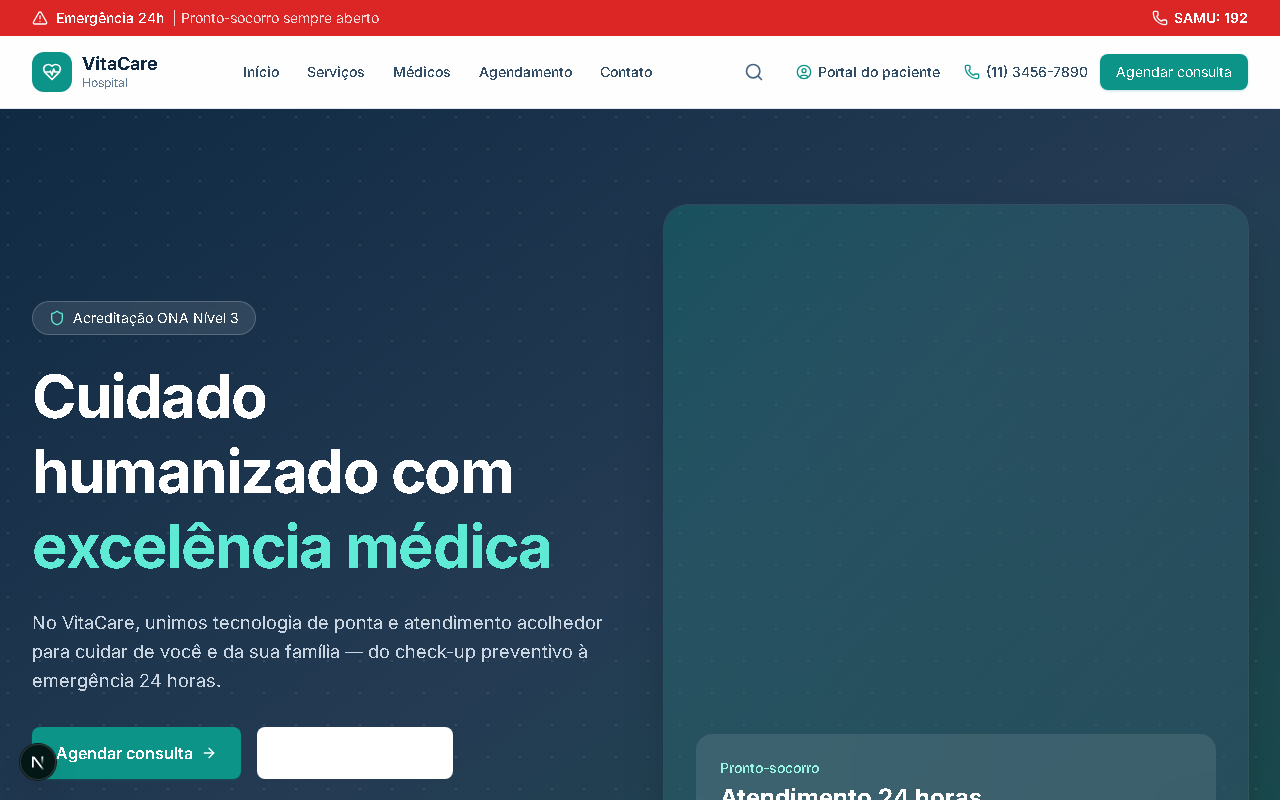
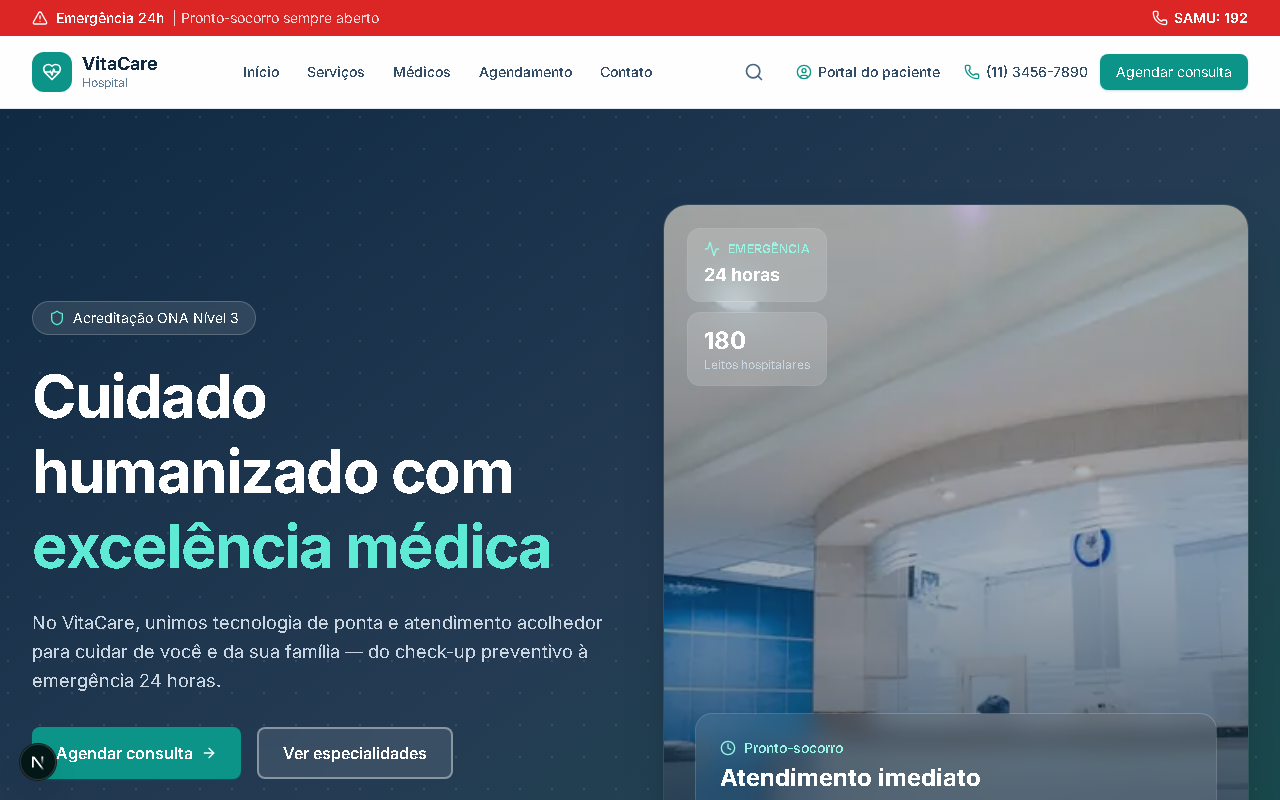
fix: corrige contraste de botoes e enriquece hero da homepage

diff --git a/src/components/home/Hero.tsx b/src/components/home/Hero.tsx
@@ -1,5 +1,6 @@
+import Image from "next/image";
 import Link from "next/link";
-import { ArrowRight, Shield, Award, Users } from "lucide-react";
+import { ArrowRight, Shield, Award, Users, Activity, Clock } from "lucide-react";
 import { Button } from "@/components/ui/Button";
 
 export function Hero() {
@@ -39,7 +40,7 @@ export function Hero() {
                 Agendar consulta
                 <ArrowRight className="size-4" aria-hidden="true" />
               </Button>
-              <Button href="/servicos" variant="outline" size="lg" className="border-white/30 text-white hover:bg-white/10">
+              <Button href="/servicos" variant="outline-light" size="lg">
                 Ver especialidades
               </Button>
             </div>
@@ -56,18 +57,68 @@ export function Hero() {
             </div>
           </div>
 
+          <div className="relative mt-10 block overflow-hidden rounded-2xl lg:hidden">
+            <div className="relative aspect-[16/9]">
+              <Image
+                src="https://images.unsplash.com/photo-1519494026892-80bbd2d6fd0d?auto=format&fit=crop&w=900&q=80"
+                alt="Ambiente hospitalar moderno do VitaCare"
+                fill
+                className="object-cover"
+                sizes="100vw"
+              />
+              <div className="absolute inset-0 bg-gradient-to-t from-secondary-900/90 to-transparent" />
+              <div className="absolute bottom-4 left-4 right-4 rounded-xl bg-white/10 p-4 backdrop-blur-md ring-1 ring-white/20">
+                <p className="text-sm font-medium text-primary-200">Pronto-socorro 24h</p>
+                <p className="text-lg font-bold">Emergência com equipe especializada</p>
+              </div>
+            </div>
+          </div>
+
           <div className="relative hidden lg:block">
-            <div className="aspect-[4/5] overflow-hidden rounded-3xl bg-gradient-to-br from-primary-600/30 to-secondary-700/50 shadow-2xl ring-1 ring-white/10">
-              <div className="flex h-full flex-col justify-end p-8">
-                <div className="rounded-2xl bg-white/10 p-6 backdrop-blur-md">
-                  <p className="text-sm font-medium text-primary-200">Pronto-socorro</p>
-                  <p className="mt-1 text-2xl font-bold">Atendimento 24 horas</p>
+            <div className="relative aspect-[4/5] overflow-hidden rounded-3xl shadow-2xl ring-1 ring-white/10">
+              <Image
+                src="https://images.unsplash.com/photo-1519494026892-80bbd2d6fd0d?auto=format&fit=crop&w=900&q=80"
+                alt="Corredor moderno de hospital com equipe médica"
+                fill
+                priority
+                className="object-cover"
+                sizes="(min-width: 1024px) 480px, 100vw"
+              />
+              <div
+                className="absolute inset-0 bg-gradient-to-t from-secondary-900/95 via-secondary-900/40 to-secondary-900/20"
+                aria-hidden="true"
+              />
+
+              <div className="absolute left-6 top-6 flex flex-col gap-3">
+                <div className="rounded-xl bg-white/15 px-4 py-3 backdrop-blur-md ring-1 ring-white/20">
+                  <div className="flex items-center gap-2 text-primary-200">
+                    <Activity className="size-4" aria-hidden="true" />
+                    <span className="text-xs font-semibold uppercase tracking-wide">
+                      Emergência
+                    </span>
+                  </div>
+                  <p className="mt-1 text-lg font-bold">24 horas</p>
+                </div>
+                <div className="rounded-xl bg-white/15 px-4 py-3 backdrop-blur-md ring-1 ring-white/20">
+                  <p className="text-2xl font-bold">180</p>
+                  <p className="text-xs text-slate-300">Leitos hospitalares</p>
+                </div>
+              </div>
+
+              <div className="absolute bottom-0 left-0 right-0 p-8">
+                <div className="rounded-2xl bg-white/10 p-6 backdrop-blur-md ring-1 ring-white/20">
+                  <div className="flex items-center gap-2 text-primary-200">
+                    <Clock className="size-4" aria-hidden="true" />
+                    <p className="text-sm font-medium">Pronto-socorro</p>
+                  </div>
+                  <p className="mt-1 text-2xl font-bold">Atendimento imediato</p>
                   <p className="mt-2 text-sm text-slate-300">
-                    Equipe multidisciplinar pronta para urgências e emergências.
+                    Equipe multidisciplinar pronta para urgências e emergências, com
+                    UTI adulto, pediátrica e neonatal.
                   </p>
                   <Link
                     href="/contato"
-                    className="mt-4 inline-flex items-center gap-1 text-sm font-medium text-primary-300 hover:text-white"
+                    className="mt-4 inline-flex items-center gap-1 text-sm font-medium text-primary-300 transition-colors hover:text-white"
                   >
                     Como chegar
                     <ArrowRight className="size-4" aria-hidden="true" />

diff --git a/src/components/home/ContactSection.tsx b/src/components/home/ContactSection.tsx
@@ -1,3 +1,4 @@
+import Image from "next/image";
 import { MapPin, Phone, Mail, Clock } from "lucide-react";
 import { siteConfig } from "@/lib/site-config";
 import { Card } from "@/components/ui/Card";
@@ -49,11 +50,7 @@ export function ContactSection() {
                 <Button href="/agendamento" variant="secondary">
                   Agendar consulta
                 </Button>
-                <Button
-                  href="/contato"
-                  variant="outline"
-                  className="border-white/30 text-white hover:bg-white/10"
-                >
+                <Button href="/contato" variant="outline-light">
                   Fale conosco
                 </Button>
               </div>
@@ -62,9 +59,18 @@ export function ContactSection() {
             <div className="hidden bg-white/5 p-8 lg:block lg:p-12">
               <Card className="h-full border-0 bg-white/10 text-white backdrop-blur">
                 <h3 className="text-lg font-semibold">Como chegar</h3>
-                <div className="mt-4 flex aspect-video items-center justify-center rounded-xl bg-white/10">
-                  <MapPin className="size-12 text-primary-300/50" aria-hidden="true" />
-                  <span className="sr-only">Mapa de localização — em breve</span>
+                <div className="relative mt-4 aspect-video overflow-hidden rounded-xl">
+                  <Image
+                    src="https://images.unsplash.com/photo-1524661135-423995f22d0b?auto=format&fit=crop&w=800&q=80"
+                    alt="Vista aérea de São Paulo — região do hospital"
+                    fill
+                    className="object-cover"
+                    sizes="400px"
+                  />
+                  <div className="absolute inset-0 bg-secondary-900/30" aria-hidden="true" />
+                  <div className="absolute bottom-3 left-3 rounded-lg bg-white/90 px-3 py-1.5 text-xs font-medium text-secondary-800 shadow">
+                    Jardim Paulista — SP
+                  </div>
                 </div>
                 <p className="mt-4 text-sm text-primary-100">
                   Estacionamento gratuito para pacientes e acompanhantes. Acesso

diff --git a/src/components/ui/Button.tsx b/src/components/ui/Button.tsx
@@ -1,7 +1,13 @@
 import Link from "next/link";
 import { cn } from "@/lib/utils";
 
-type ButtonVariant = "primary" | "secondary" | "outline" | "emergency" | "ghost";
+type ButtonVariant =
+  | "primary"
+  | "secondary"
+  | "outline"
+  | "outline-light"
+  | "emergency"
+  | "ghost";
 type ButtonSize = "sm" | "md" | "lg";
 
 interface ButtonProps extends React.ButtonHTMLAttributes<HTMLButtonElement> {
@@ -17,7 +23,9 @@ const variantStyles: Record<ButtonVariant, string> = {
   secondary:
     "bg-secondary-800 text-white hover:bg-secondary-900 shadow-sm",
   outline:
-    "border-2 border-primary-600 text-primary-700 hover:bg-primary-50 bg-white",
+    "border-2 border-primary-600 bg-white text-primary-700 hover:bg-primary-50",
+  "outline-light":
+    "border-2 border-white/40 bg-white/10 text-white hover:border-white/60 hover:bg-white/20 backdrop-blur-sm",
   emergency:
     "bg-emergency text-white hover:bg-emergency-dark shadow-sm",
   ghost: "text-secondary-700 hover:bg-secondary-100",

diff --git a/src/components/layout/Header.tsx b/src/components/layout/Header.tsx
@@ -72,15 +72,25 @@ export function Header() {
               </Button>
             </div>
 
+          <div className="flex items-center gap-2 lg:hidden">
             <button
               type="button"
-              className="rounded-lg p-2 text-secondary-700 lg:hidden"
+              aria-label="Buscar no site"
+              onClick={() => setSearchOpen(true)}
+              className="rounded-lg p-2 text-secondary-700"
+            >
+              <Search className="size-6" />
+            </button>
+            <button
+              type="button"
+              className="rounded-lg p-2 text-secondary-700"
               aria-label={mobileOpen ? "Fechar menu" : "Abrir menu"}
               aria-expanded={mobileOpen}
               onClick={() => setMobileOpen(!mobileOpen)}
             >
               {mobileOpen ? <X className="size-6" /> : <Menu className="size-6" />}
             </button>
+          </div>
           </div>
         </div>
 

diff --git a/src/components/layout/Footer.tsx b/src/components/layout/Footer.tsx
@@ -85,13 +85,13 @@ export function Footer() {
             © {currentYear} {siteConfig.name}. Todos os direitos reservados.
           </p>
           <div className="flex gap-6 text-sm">
-            <Link href="#" className="hover:text-primary-400">
+            <Link href="/contato" className="hover:text-primary-400">
               Política de privacidade
             </Link>
-            <Link href="#" className="hover:text-primary-400">
+            <Link href="/contato" className="hover:text-primary-400">
               Termos de uso
             </Link>
-            <Link href="#" className="hover:text-primary-400">
+            <Link href="/contato" className="hover:text-primary-400">
               Acessibilidade
             </Link>
           </div>

diff --git a/next.config.ts b/next.config.ts
@@ -2,6 +2,14 @@ import type { NextConfig } from "next";
 
 const nextConfig: NextConfig = {
   reactStrictMode: true,
+  images: {
+    remotePatterns: [
+      {
+        protocol: "https",
+        hostname: "images.unsplash.com",
+      },
+    ],
+  },
 };
 
 export default nextConfig;
